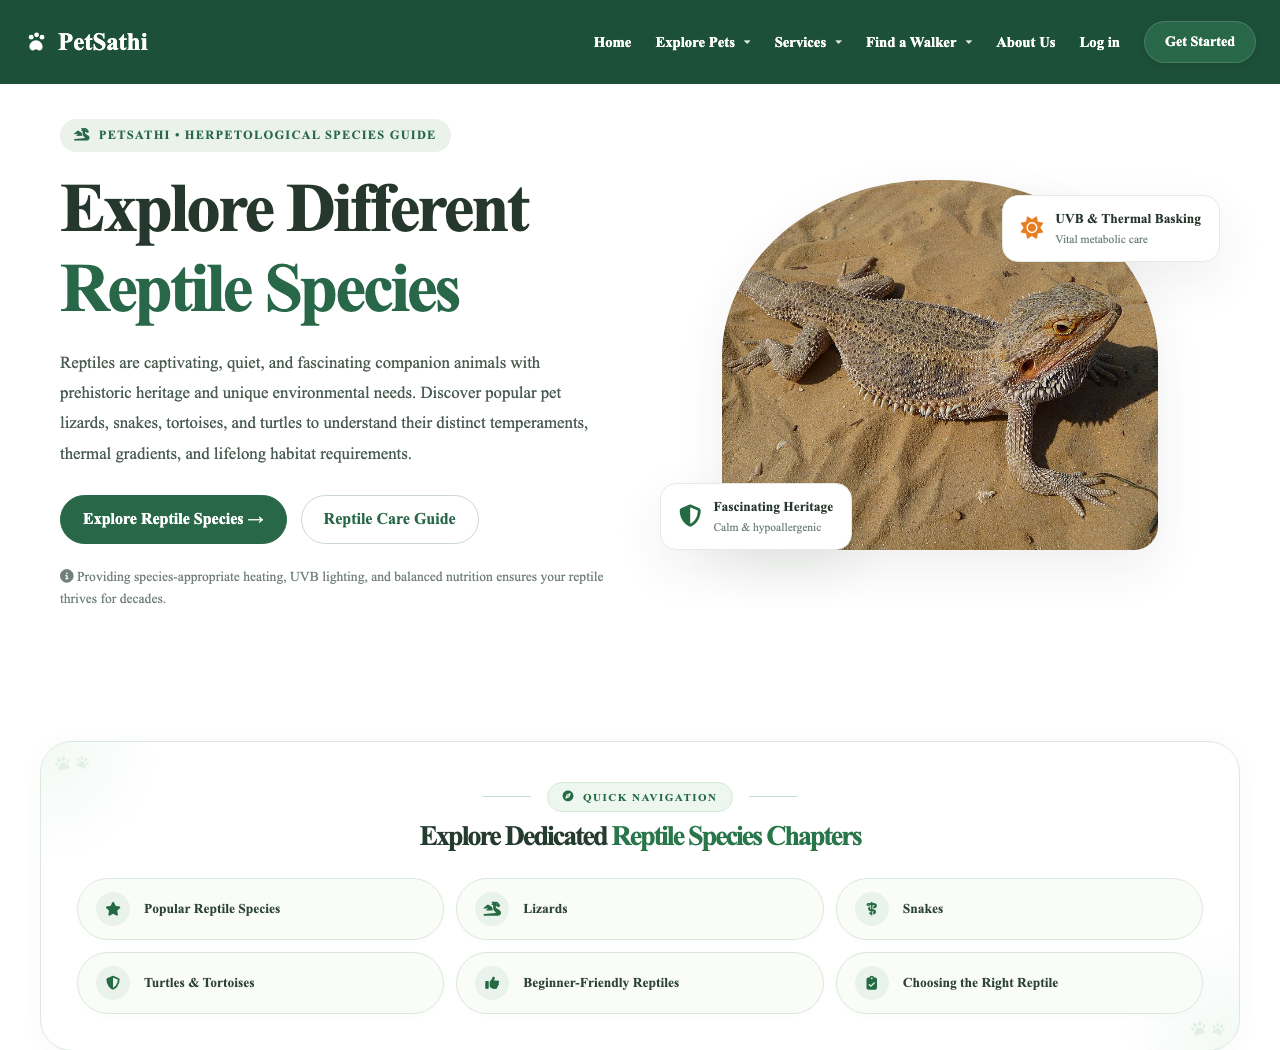
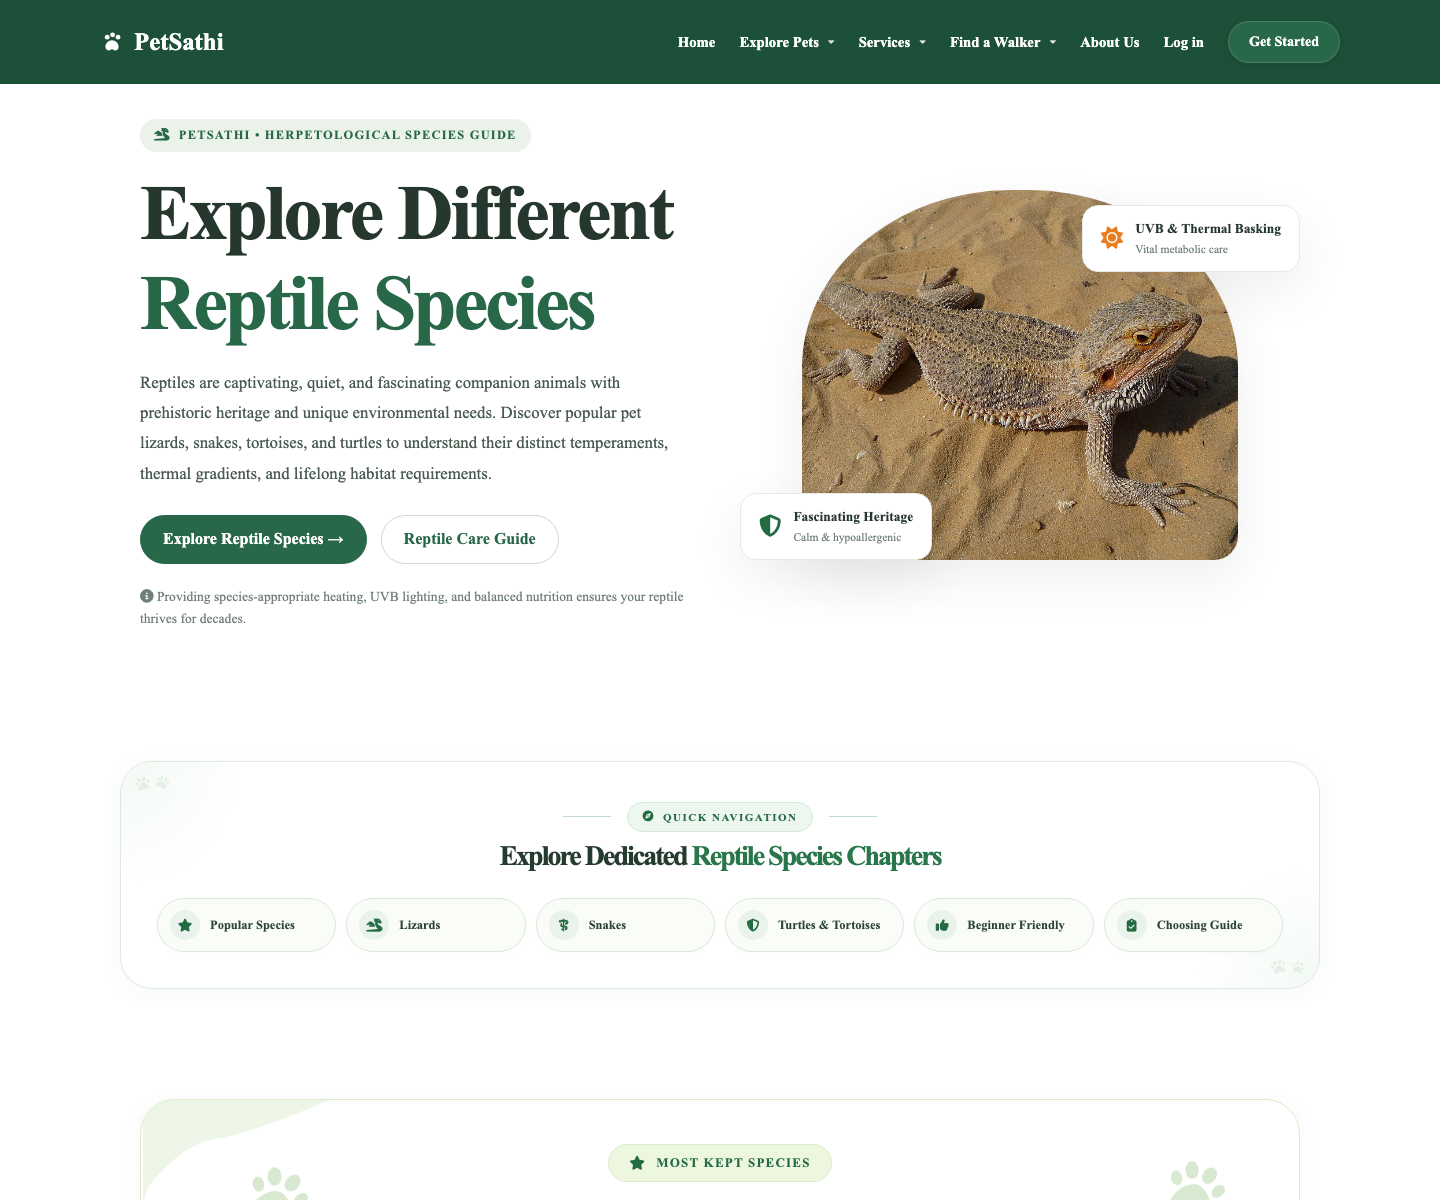
style(reptiles/breeds): align quick nav in single row, remove card care buttons, and update CTA per review

diff --git a/frontend/pages/pets/other/breeds.html b/frontend/pages/pets/other/breeds.html
@@ -299,22 +299,22 @@
       position: relative;
       z-index: 1;
       display: grid;
-      grid-template-columns: repeat(3, 1fr);
-      gap: 12px;
+      grid-template-columns: repeat(6, 1fr);
+      gap: 10px;
     }
 
     .guide-nav-item {
       display: flex;
       align-items: center;
-      gap: 14px;
-      padding: 13px 18px;
+      gap: 10px;
+      padding: 11px 12px;
       border-radius: 999px;
       background: #fafcf8;
       border: 1.5px solid #dbe8dd;
       color: #2d4536;
       text-decoration: none;
       font-weight: 700;
-      font-size: 13.5px;
+      font-size: 12.5px;
       transition: all 0.25s ease;
       box-shadow: 0 2px 6px rgba(35, 80, 50, 0.02);
     }
@@ -330,12 +330,12 @@
     .guide-nav-icon {
       display: grid;
       place-items: center;
-      width: 34px;
-      height: 34px;
+      width: 30px;
+      height: 30px;
       border-radius: 50%;
       background: #eaf3eb;
       color: #246b43;
-      font-size: 14px;
+      font-size: 13px;
       flex-shrink: 0;
       transition: all 0.25s ease;
     }
@@ -371,7 +371,7 @@
     }
 
     /* -------------------------------------------------------------
-       Signature Section Heading Cards matching Dog/Cat Index
+       Signature Section Heading Cards matching reptiles.html & dogs/index.html
        ------------------------------------------------------------- */
     .section-heading-wrap {
       position: relative;
@@ -408,42 +408,41 @@
       right: 0;
     }
 
-    /* Decorative Paw Accents */
+    /* Floating Paw Background Accents (Exact match to reptiles.html & dogs/index.html) */
     .paw {
       position: absolute;
+      color: rgba(115, 173, 91, 0.28);
       z-index: 1;
       pointer-events: none;
-      color: #c9e0c5;
-      font-size: 32px;
-      opacity: 0.5;
+      line-height: 1;
     }
 
     .paw-left-1 {
-      top: 22px;
-      left: 28px;
-      transform: rotate(-25deg);
+      top: 66px;
+      left: 108px;
+      font-size: 58px;
+      transform: rotate(20deg);
     }
 
     .paw-left-2 {
-      bottom: 22px;
-      left: 70px;
-      font-size: 24px;
-      transform: rotate(15deg);
-      opacity: 0.35;
+      bottom: 24px;
+      left: 82px;
+      font-size: 38px;
+      transform: rotate(-15deg);
     }
 
     .paw-right-1 {
-      top: 22px;
-      right: 28px;
-      transform: rotate(25deg);
+      top: 60px;
+      right: 75px;
+      font-size: 56px;
+      transform: rotate(18deg);
     }
 
     .paw-right-2 {
-      bottom: 22px;
-      right: 70px;
-      font-size: 24px;
+      bottom: 35px;
+      right: 140px;
+      font-size: 38px;
       transform: rotate(-15deg);
-      opacity: 0.35;
     }
 
     .heading-content {
@@ -454,17 +453,17 @@
     .heading-label {
       display: inline-flex;
       align-items: center;
-      gap: 7px;
-      padding: 6px 16px;
-      border-radius: 999px;
+      gap: 10px;
+      padding: 7px 20px;
+      margin-bottom: 16px;
+      border-radius: 50px;
       background: #edf6df;
-      border: 1px solid #dce8ce;
+      border: 1px solid #dcebc9;
       color: #246b43;
       font-size: 13px;
       font-weight: 700;
       letter-spacing: 1.2px;
       text-transform: uppercase;
-      margin-bottom: 12px;
     }
 
     .heading-label i {
@@ -473,6 +472,7 @@
       line-height: 1;
     }
 
+    .heading-content h2,
     .section-heading-wrap h2 {
       color: #263b30;
       font-family: Georgia, serif !important;
@@ -487,8 +487,12 @@
       flex-wrap: wrap;
     }
 
-    .section-heading-wrap h2 span {
-      color: #28764a;
+    .heading-content h2 span,
+    .heading-content h2 em,
+    .section-heading-wrap h2 span,
+    .section-heading-wrap h2 em {
+      color: #28764a !important;
+      font-style: normal !important;
     }
 
     .heading-burst {
@@ -502,14 +506,17 @@
 
     .heading-burst span {
       position: absolute;
-      display: block;
-      background-color: #28764a;
-      border-radius: 2px;
+      background: #60a872;
+      border-radius: 9999px;
+    }
+
+    .heading-burst.left span {
+      right: 0;
+      transform-origin: right center;
     }
 
     .heading-burst.left span:nth-child(1) {
       top: 3px;
-      right: 0;
       width: 14px;
       height: 2.8px;
       transform: rotate(35deg);
@@ -517,17 +524,20 @@
 
     .heading-burst.left span:nth-child(2) {
       top: 11px;
-      right: 0;
       width: 18px;
       height: 2.8px;
     }
 
     .heading-burst.left span:nth-child(3) {
       bottom: 3px;
-      right: 0;
       width: 14px;
       height: 2.8px;
       transform: rotate(-35deg);
+    }
+
+    .heading-burst.right span {
+      left: 0;
+      transform-origin: left center;
     }
 
     .heading-burst.right span:nth-child(1) {
@@ -662,7 +672,7 @@
       background: #f7faf7;
       padding: 12px 14px;
       border-radius: 14px;
-      margin-bottom: 18px;
+      margin-bottom: 0;
       border: 1px solid #e4ede6;
       text-align: left;
     }
@@ -871,6 +881,19 @@
       box-shadow: 0 6px 18px rgba(36, 107, 67, 0.2);
     }
 
+    .rep-pink-cta-actions .button-outline {
+      background: #ffffff !important;
+      color: #246b43 !important;
+      border: 1.5px solid #246b43 !important;
+    }
+
+    .rep-pink-cta-actions .button-outline:hover {
+      background: #246b43 !important;
+      color: #ffffff !important;
+      transform: translateY(-2px);
+      box-shadow: 0 6px 18px rgba(36, 107, 67, 0.2);
+    }
+
     /* -------------------------------------------------------------
        Responsive Design (Desktop 3, Tablet 2, Mobile 1)
        ------------------------------------------------------------- */
@@ -1027,7 +1050,7 @@
       <div class="guides-nav-grid">
         <a href="#popular-species" class="guide-nav-item" id="hub-link-popular">
           <span class="guide-nav-icon"><i class="fa-solid fa-star" aria-hidden="true"></i></span>
-          <span class="guide-nav-label">Popular Reptile Species</span>
+          <span class="guide-nav-label">Popular Species</span>
         </a>
         <a href="#lizards" class="guide-nav-item" id="hub-link-lizards">
           <span class="guide-nav-icon"><i class="fa-solid fa-dragon" aria-hidden="true"></i></span>
@@ -1043,11 +1066,11 @@
         </a>
         <a href="#beginner-friendly" class="guide-nav-item" id="hub-link-beginner">
           <span class="guide-nav-icon"><i class="fa-solid fa-thumbs-up" aria-hidden="true"></i></span>
-          <span class="guide-nav-label">Beginner-Friendly Reptiles</span>
+          <span class="guide-nav-label">Beginner Friendly</span>
         </a>
         <a href="#choosing-reptile" class="guide-nav-item" id="hub-link-choosing">
           <span class="guide-nav-icon"><i class="fa-solid fa-clipboard-check" aria-hidden="true"></i></span>
-          <span class="guide-nav-label">Choosing the Right Reptile</span>
+          <span class="guide-nav-label">Choosing Guide</span>
         </a>
       </div>
     </div>
@@ -1106,7 +1129,6 @@
                 <div class="spec-item"><span class="spec-label">Diet</span><span class="spec-val">Omnivore (Greens &amp; Insects)</span></div>
                 <div class="spec-item"><span class="spec-label">Enclosure</span><span class="spec-val">120 Gallons (4x2x2 ft)</span></div>
               </div>
-              <a href="care.html#housing" class="species-card-link">Care Guide &rarr;</a>
             </div>
           </article>
 
@@ -1126,7 +1148,6 @@
                 <div class="spec-item"><span class="spec-label">Diet</span><span class="spec-val">Insectivore (Crickets &amp; Roaches)</span></div>
                 <div class="spec-item"><span class="spec-label">Enclosure</span><span class="spec-val">20–40 Gallons</span></div>
               </div>
-              <a href="care.html#housing" class="species-card-link">Care Guide &rarr;</a>
             </div>
           </article>
 
@@ -1146,7 +1167,6 @@
                 <div class="spec-item"><span class="spec-label">Diet</span><span class="spec-val">Frugivore (Complete Meal Puree)</span></div>
                 <div class="spec-item"><span class="spec-label">Enclosure</span><span class="spec-val">20 Gallon Tall (Arboreal)</span></div>
               </div>
-              <a href="care.html#housing" class="species-card-link">Care Guide &rarr;</a>
             </div>
           </article>
 
@@ -1166,7 +1186,6 @@
                 <div class="spec-item"><span class="spec-label">Diet</span><span class="spec-val">Carnivore (Frozen-Thawed Rodents)</span></div>
                 <div class="spec-item"><span class="spec-label">Enclosure</span><span class="spec-val">40–75 Gallons</span></div>
               </div>
-              <a href="care.html#housing" class="species-card-link">Care Guide &rarr;</a>
             </div>
           </article>
 
@@ -1186,7 +1205,6 @@
                 <div class="spec-item"><span class="spec-label">Diet</span><span class="spec-val">Carnivore (Frozen-Thawed Rodents)</span></div>
                 <div class="spec-item"><span class="spec-label">Enclosure</span><span class="spec-val">120 Gallons (4x2x2 ft)</span></div>
               </div>
-              <a href="care.html#housing" class="species-card-link">Care Guide &rarr;</a>
             </div>
           </article>
 
@@ -1206,7 +1224,6 @@
                 <div class="spec-item"><span class="spec-label">Diet</span><span class="spec-val">Omnivore (Greens, Vegetables, Insects)</span></div>
                 <div class="spec-item"><span class="spec-label">Enclosure</span><span class="spec-val">120 Gallons (4x2x2 ft)</span></div>
               </div>
-              <a href="care.html#housing" class="species-card-link">Care Guide &rarr;</a>
             </div>
           </article>
 
@@ -1226,7 +1243,6 @@
                 <div class="spec-item"><span class="spec-label">Diet</span><span class="spec-val">Herbivore (High-Fiber Weeds &amp; Grasses)</span></div>
                 <div class="spec-item"><span class="spec-label">Enclosure</span><span class="spec-val">Tortoise Table (4x2 ft minimum)</span></div>
               </div>
-              <a href="care.html#housing" class="species-card-link">Care Guide &rarr;</a>
             </div>
           </article>
 
@@ -1246,7 +1262,6 @@
                 <div class="spec-item"><span class="spec-label">Diet</span><span class="spec-val">Omnivore (Pellets, Greens, Insects)</span></div>
                 <div class="spec-item"><span class="spec-label">Enclosure</span><span class="spec-val">75–120 Gallon Aquaterrarium</span></div>
               </div>
-              <a href="care.html#housing" class="species-card-link">Care Guide &rarr;</a>
             </div>
           </article>
 
@@ -1599,7 +1614,7 @@
     <section class="section-wrap" aria-labelledby="cta-heading">
       <div class="rep-pink-cta">
         <div>
-          <div class="eyebrow">READY TO WELCOME A REPTILE COMPANION?</div>
+          <div class="eyebrow">START YOUR REPTILE JOURNEY</div>
           <h2 id="cta-heading">Ready to Welcome a <em>Reptile Companion?</em></h2>
           <p>
             Explore proper reptile care, vivarium engineering, and dietary requirements before choosing a species. Ensure you have the time, habitat, and commitment for a healthy, lifelong partnership.
@@ -1608,6 +1623,9 @@
         <div class="rep-pink-cta-actions">
           <a class="button" href="care.html" id="cta-explore-care">
             Explore Reptile Care &rarr;
+          </a>
+          <a class="button button-outline" href="reptiles.html" id="cta-back-reptiles">
+            Back to Reptiles Guide
           </a>
         </div>
       </div>
